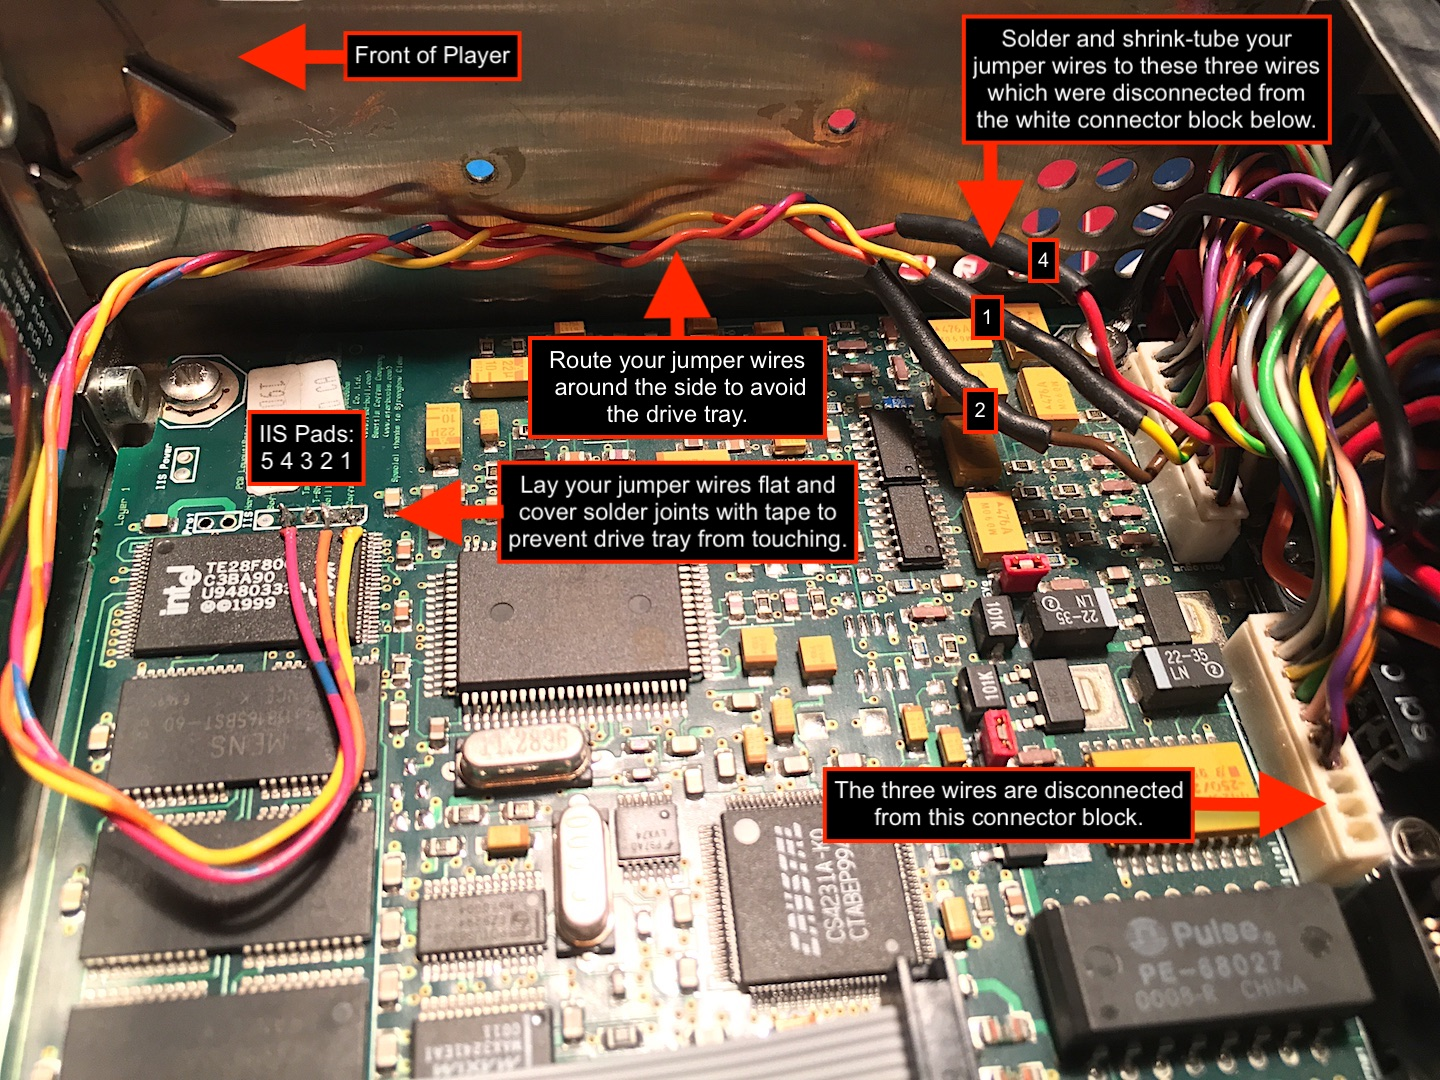
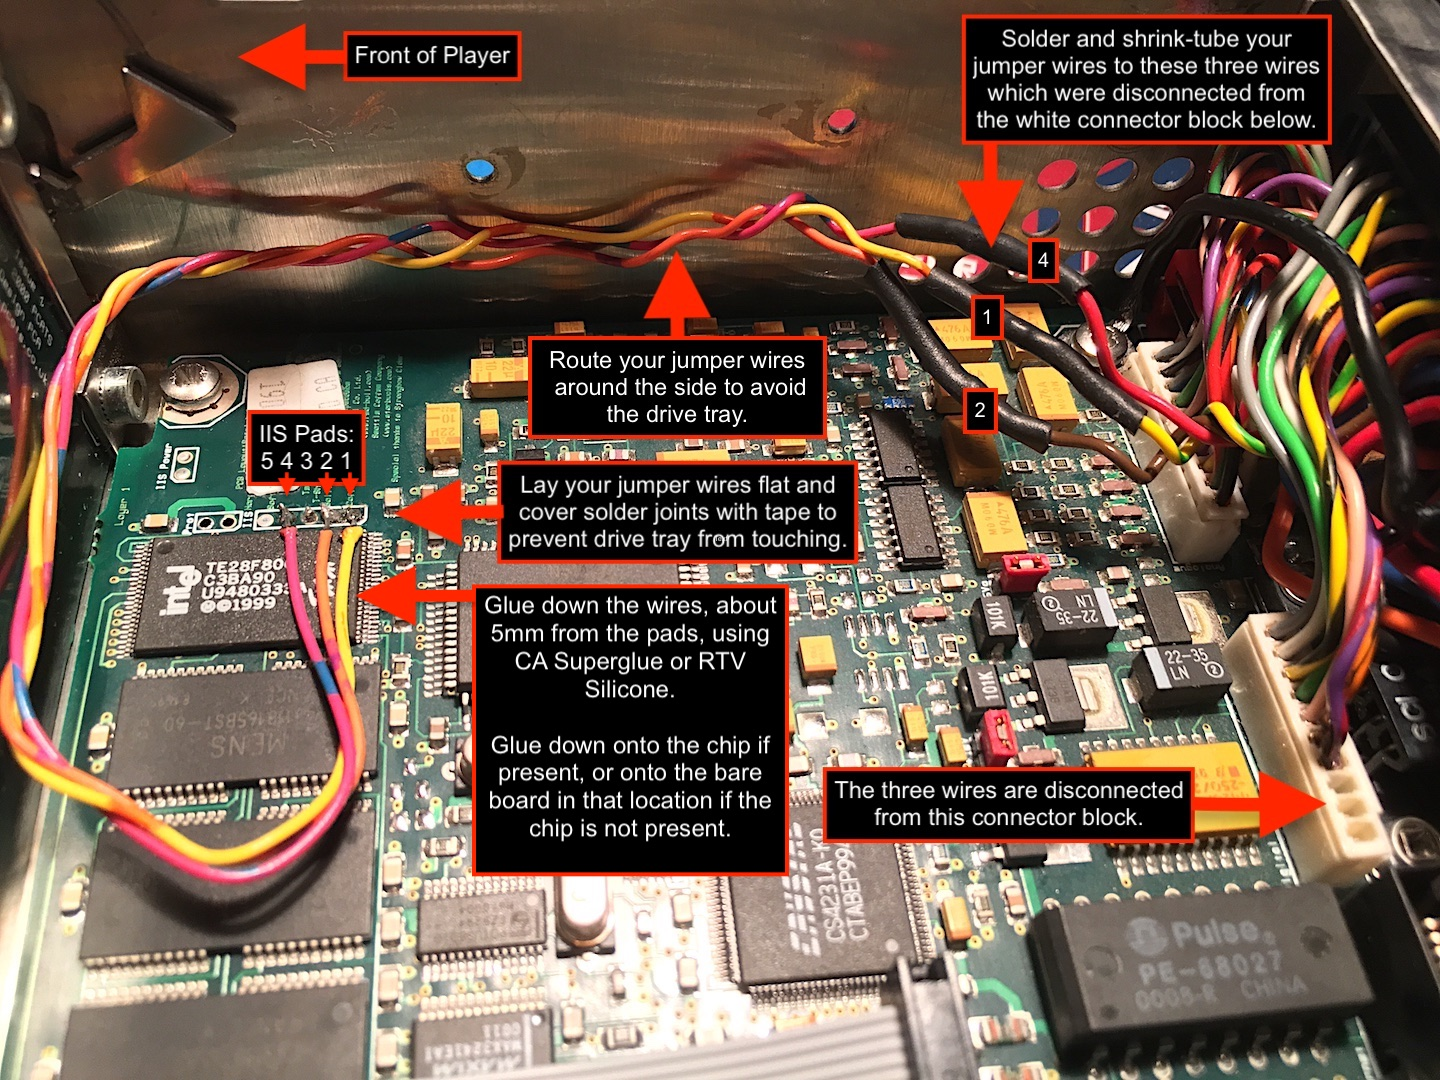
Update I2S instructions and photo.
Update I2S wiring modification instructions to include gluing down the wires.

Changed region(s): [[0.25, 0.5194, 0.5625, 0.825], [0.1875, 0.4278, 0.25, 0.4583]]

diff --git a/Version.h b/Version.h
@@ -1,3 +1,3 @@
 int majorVersion=1;
 int minorVersion=0;
-int buildNumber=66;
+int buildNumber=67;
